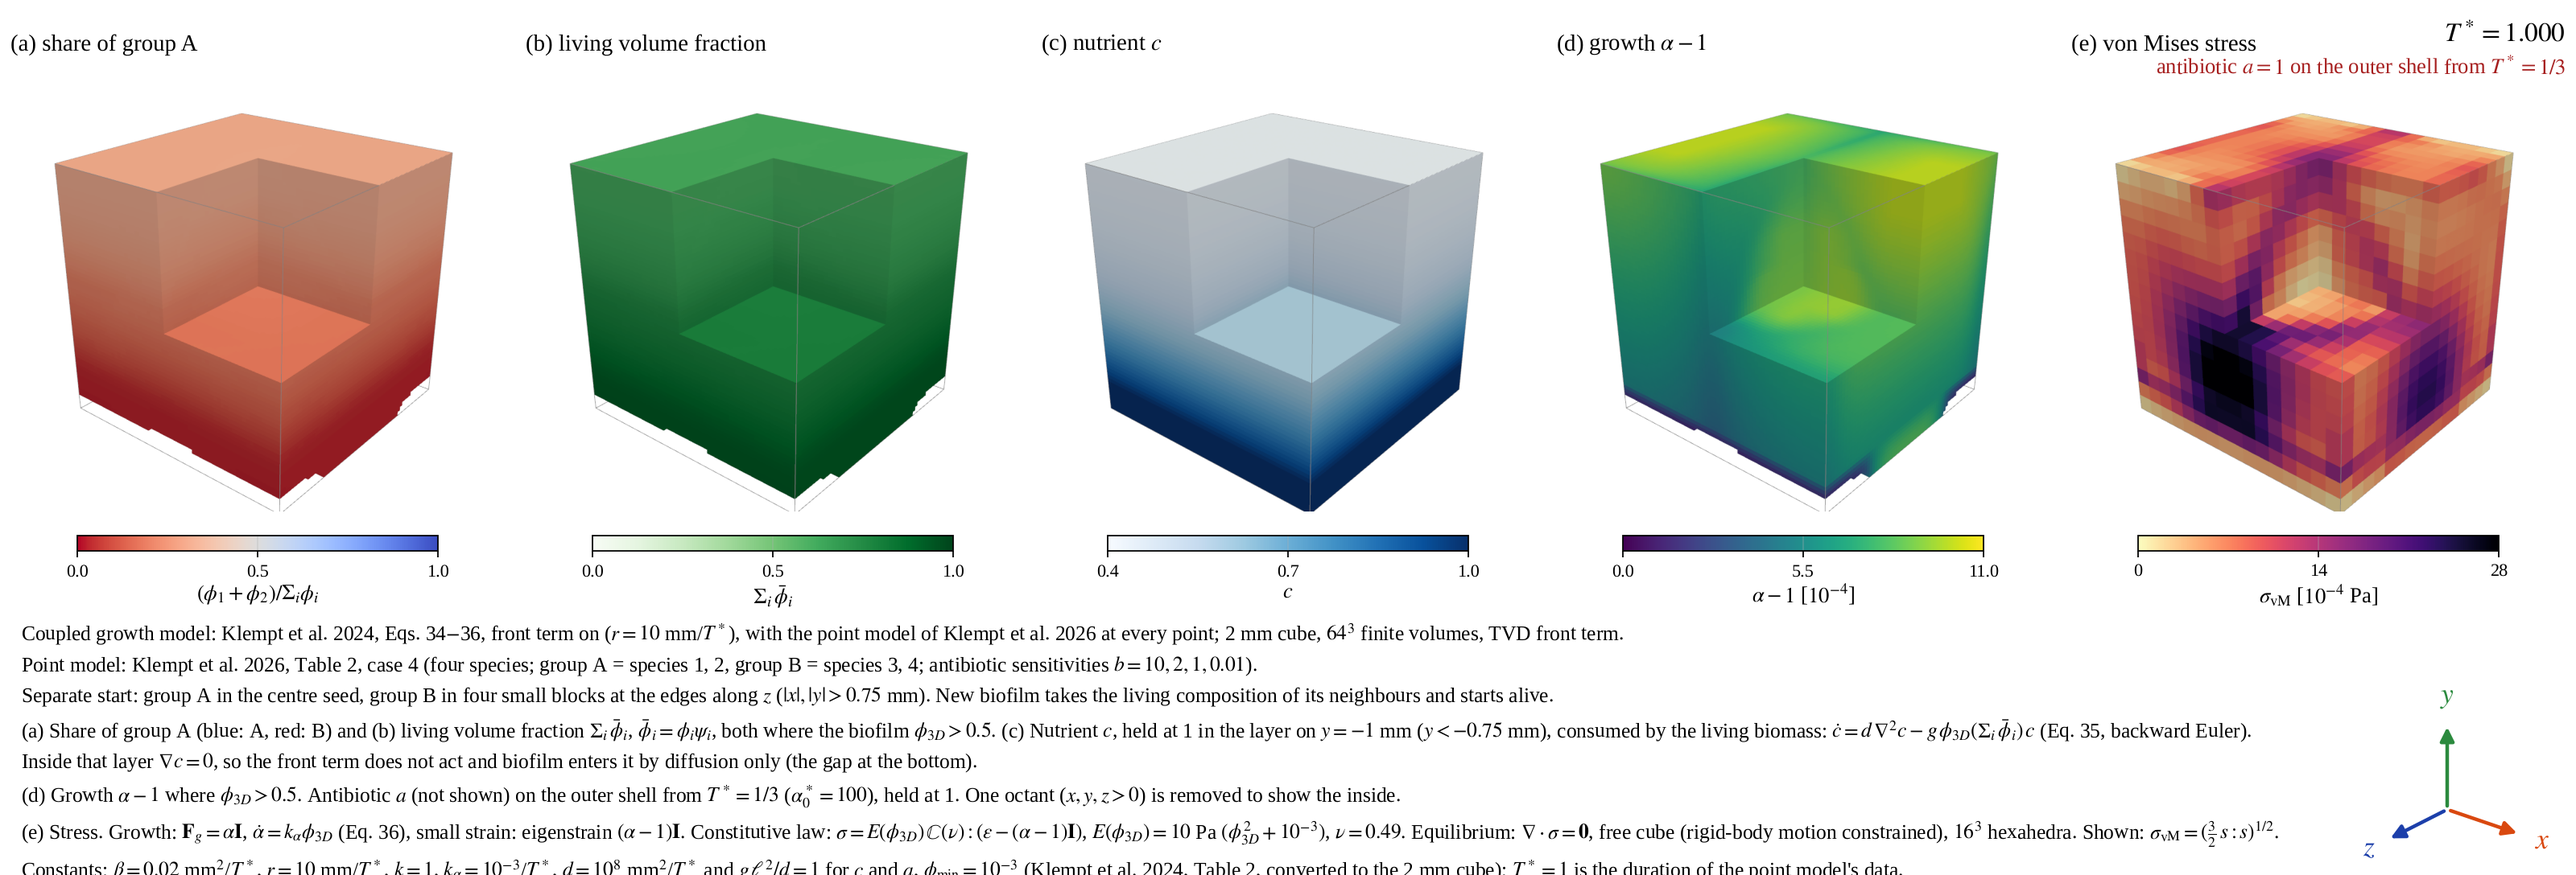
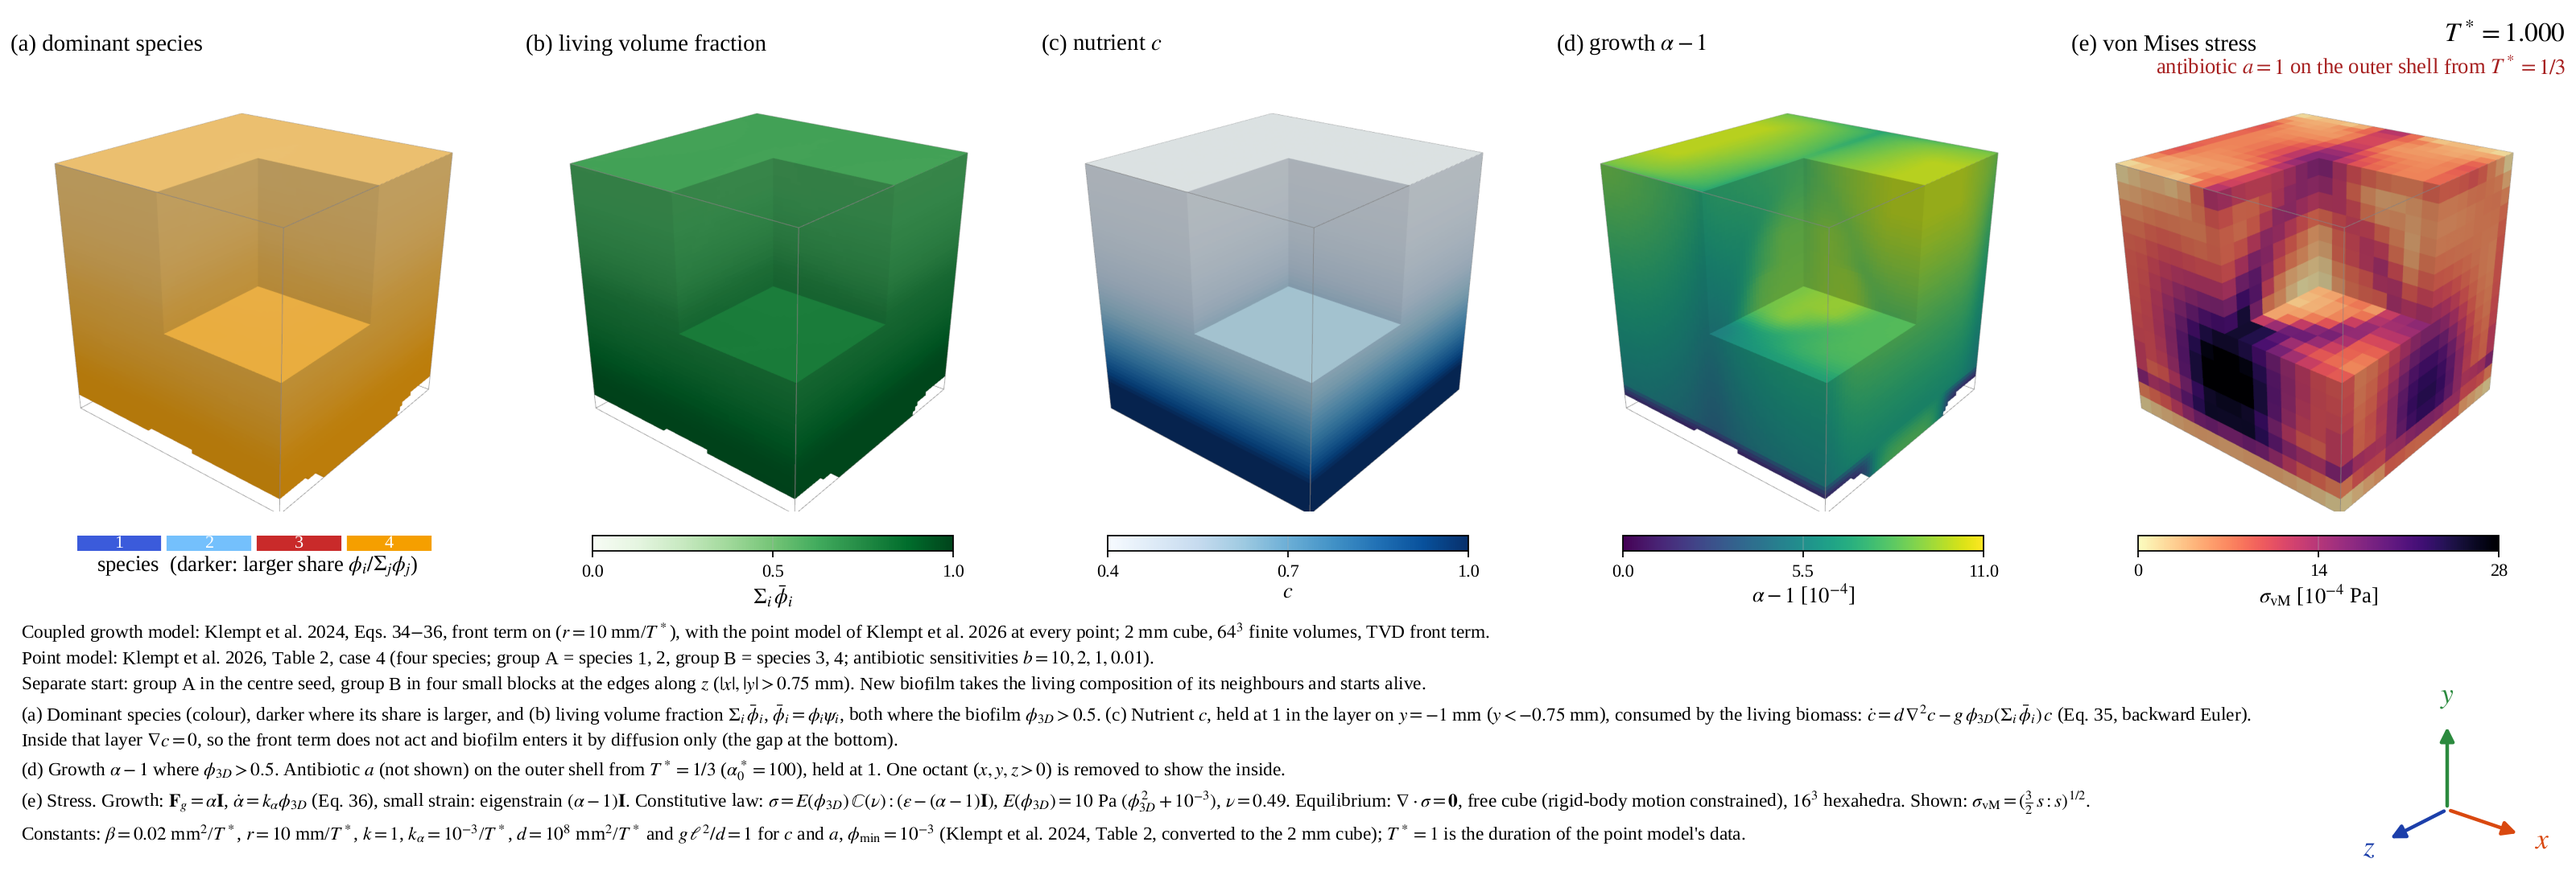
Four-species videos: dominant species coloured, caption fitted

diff --git a/ansys_usermat/apdl/anim_coupled_tvd_3d.py b/ansys_usermat/apdl/anim_coupled_tvd_3d.py
@@ -206,7 +206,7 @@ for T in times:
     if CASE.endswith("_ab") and T >= 1 / 3 - 1e-9:   # 2 Nov: mark the antibiotic onset (its panel is replaced by alpha - 1)
         fig.text(0.996, 0.935, (r"antibiotic in pulses from $T^* = 1/3$" if PULSE else r"antibiotic $a = 1$ on the outer shell from $T^* = 1/3$"),
                  ha="right", va="top", fontsize=12, color="#a61e1e")
-    fig.text(0.008, 0.29, CAPTION, ha="left", va="top", fontsize=11.5, linespacing=1.5)
+    fig.text(0.008, 0.29, CAPTION, ha="left", va="top", fontsize=10.5 if K26C4 else 11.5, linespacing=1.4 if K26C4 else 1.5)   # four species: one line more
     fig.canvas.draw()
     img = np.asarray(fig.canvas.buffer_rgba())[..., :3].copy()
     for _ in range(9 if T == times[-1] else 1):
